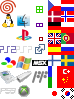
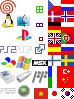
Added Vietnamese to the language list
Now the last unused space in icons.png is used as well. Another icon and
we'll need to enlarge it a bit.

Changed region(s): [[0.4595, 0.8788, 0.6486, 1.0]]

diff --git a/data/style.css b/data/style.css
@@ -1226,6 +1226,8 @@ a .icons { cursor: pointer }
 .icons.msx { background-position: -32px -56px; }
 .icons.nes { background-position: -32px -70px; }
 
+.icons.vi  { background-position: -34px -88px; }
+
 .icons.cs  { background-position: -48px   0px; }
 .icons.da  { background-position: -48px -11px; }
 .icons.de  { background-position: -48px -22px; }
